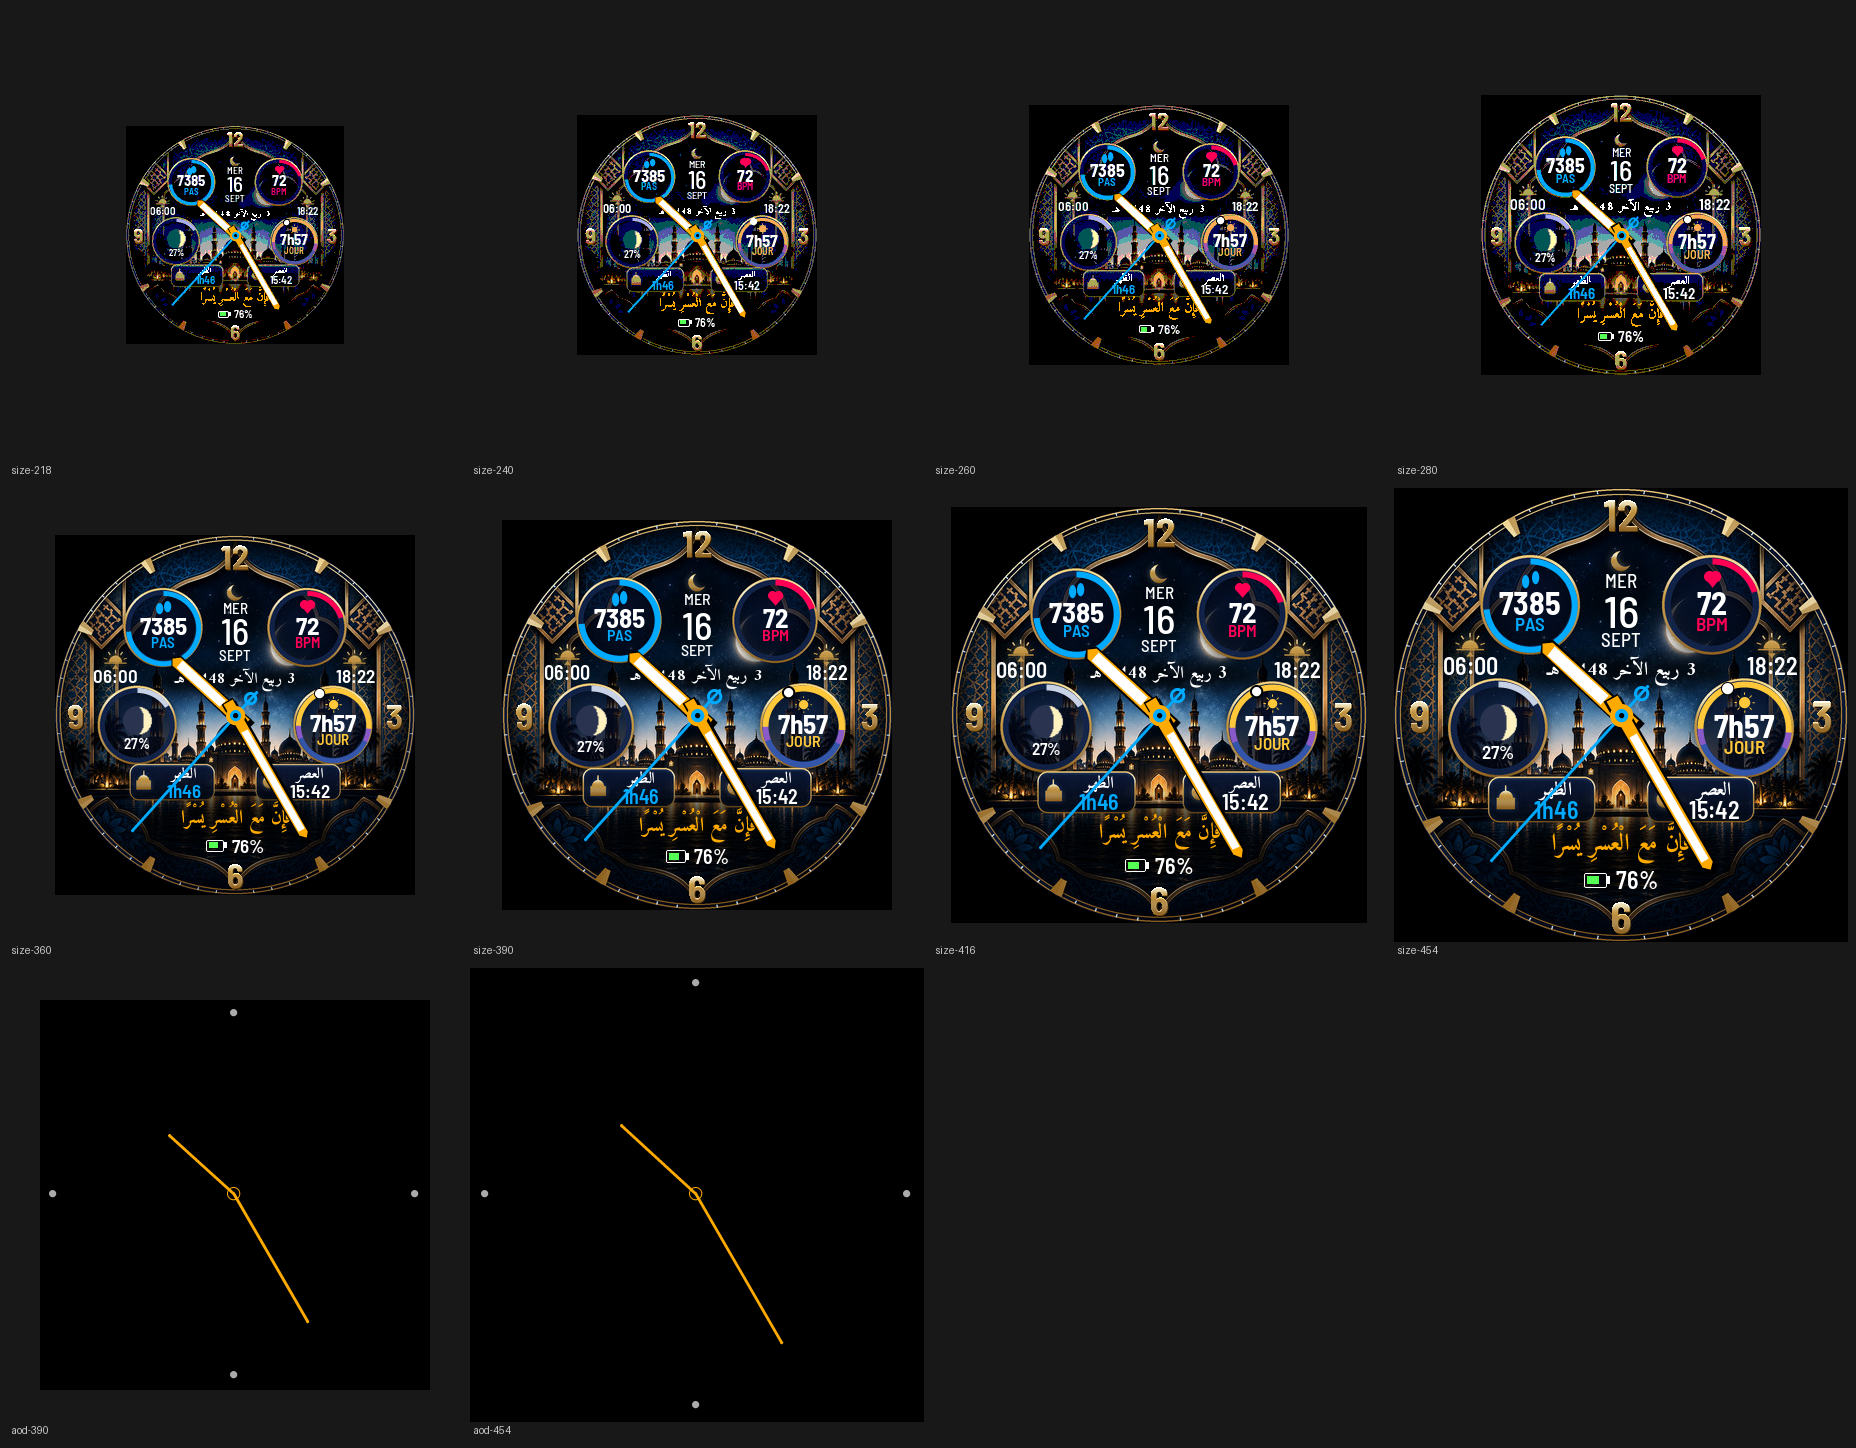
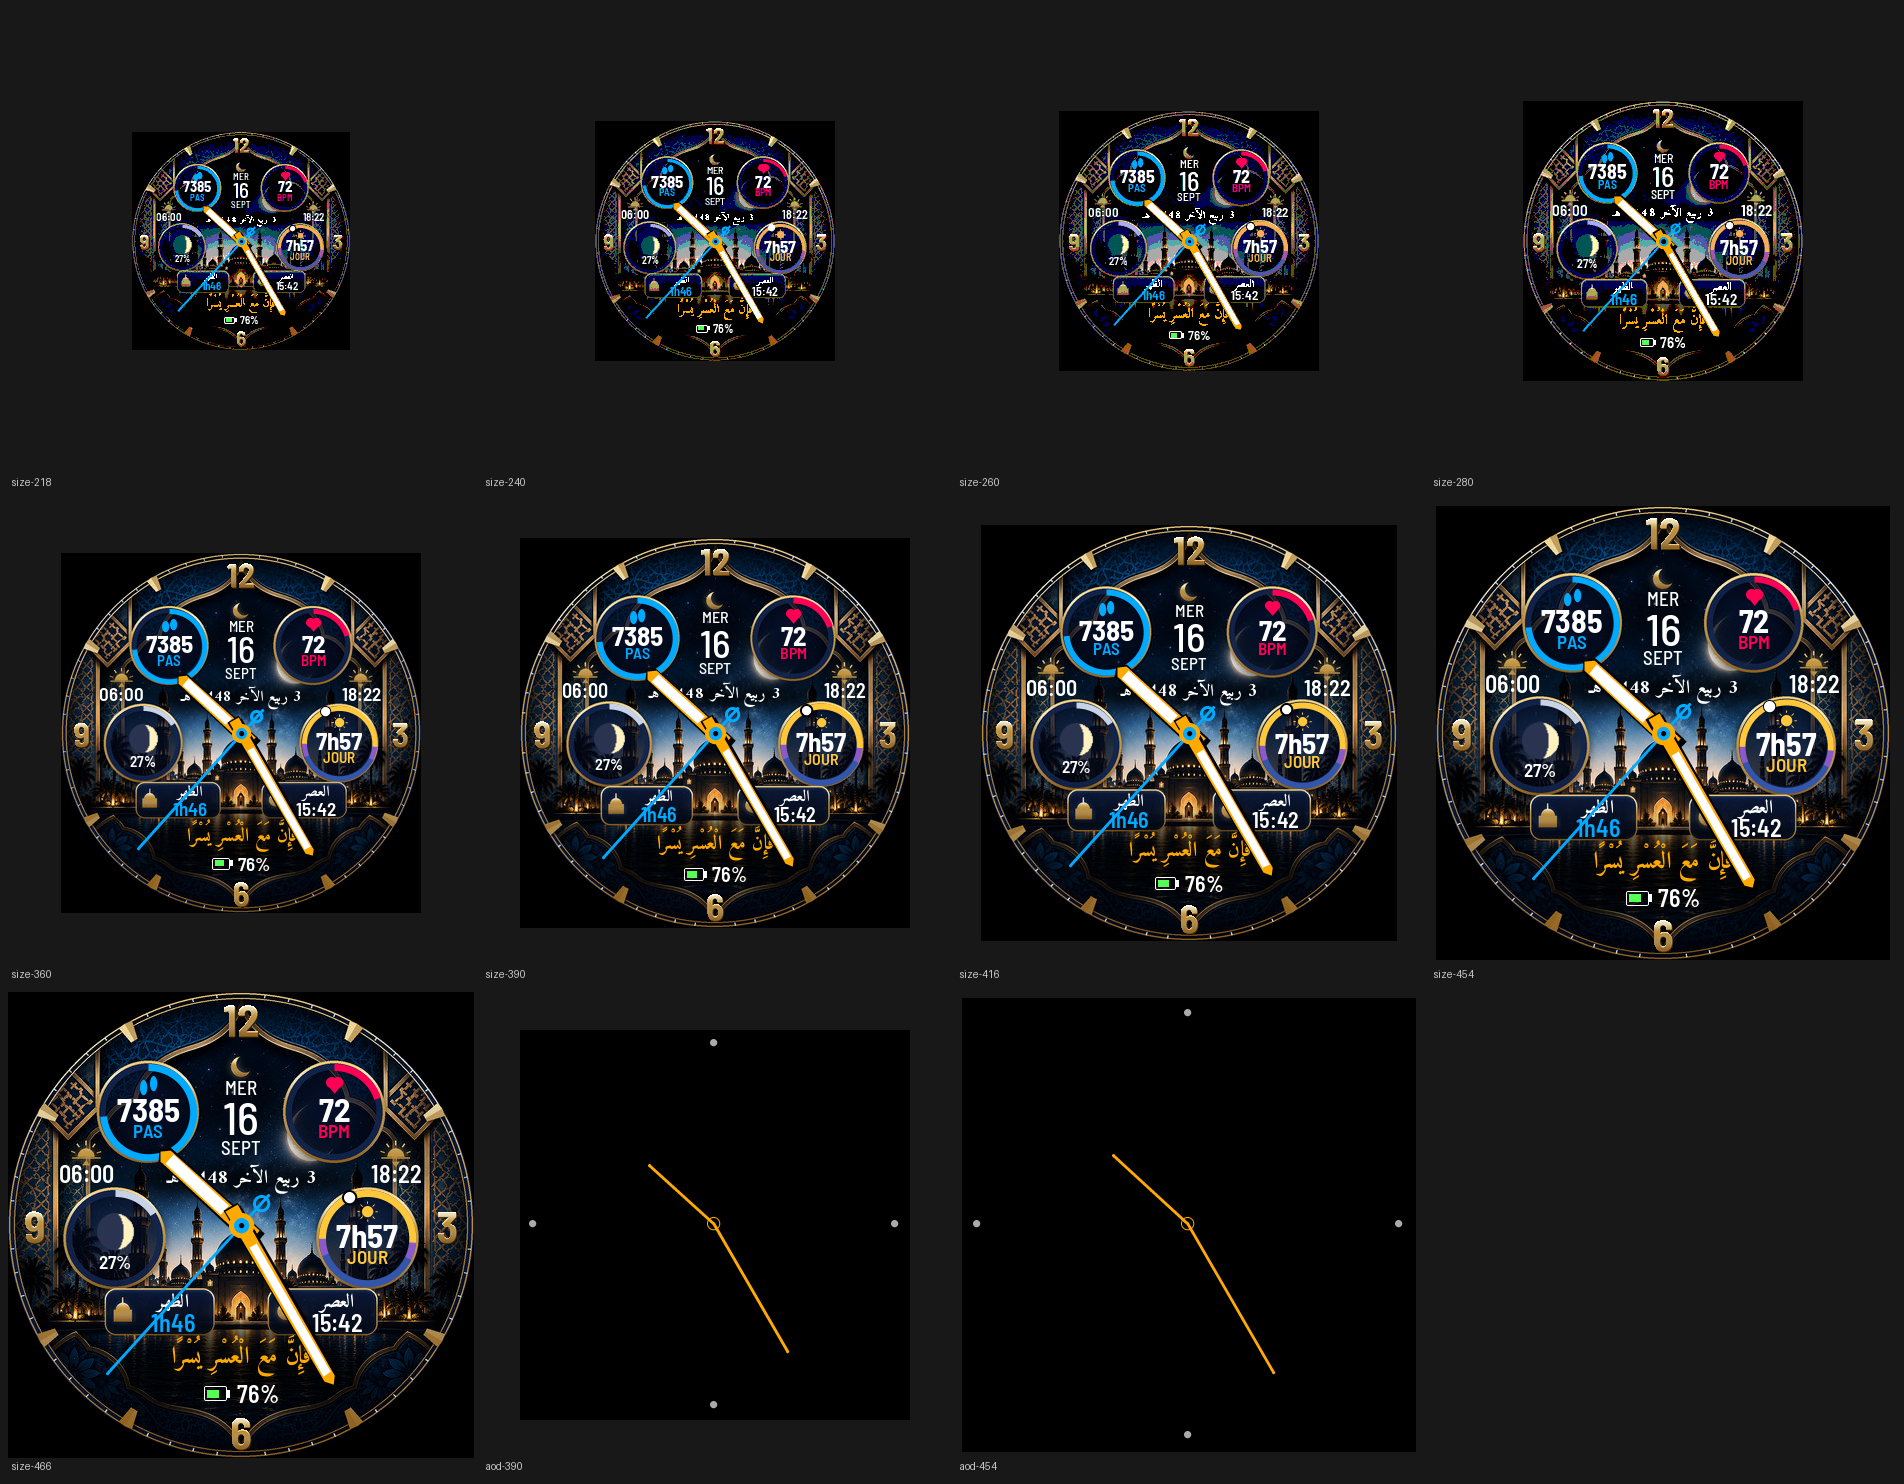
Previews with the 466 px size; checklist: all 70 models compile

diff --git a/docs/RELEASE_CHECKLIST.md b/docs/RELEASE_CHECKLIST.md
@@ -8,8 +8,8 @@ Legend: ✅ done · ⬜ to do by the owner (needs the SDK simulator, the watch o
 * ✅ Algorithms validated against independent libraries — `python3 tools/validate_calculations.py`
   (prayer times, sunrise/sunset, Hijri calendar, Moon phase)
 * ✅ Layout validated for 9 screen sizes (218–466 px), 3 font families, EN/FR — `python3 tools/check_layout.py`
-* ✅ Compiles without errors with Connect IQ SDK 9.3.0 (GitHub Actions): 8 preview devices and the
-  unit-test build
+* ✅ Compiles without errors with Connect IQ SDK 9.3.0 (GitHub Actions, mode `all`): all 70 listed
+  watch models and the unit-test build
 * ✅ Runs on a fēnix 7X Pro (sideloaded): dial, gauges, prayers, verse, Moon, daylight ring
 * ✅ No network access, one permission (SensorHistory), settings validated with fallbacks
 * ✅ Store texts EN/FR and privacy statement — `docs/STORE.md`
@@ -19,7 +19,7 @@ Legend: ✅ done · ⬜ to do by the owner (needs the SDK simulator, the watch o
 * ⬜ Create your permanent developer key **once** and keep it safe, outside the repository (README,
   “Store package”). Every future update must be signed with the same key.
 * ⬜ Add it as the GitHub secret `CIQ_DEVELOPER_KEY`, then run *Actions → Build → Run workflow*
-  with mode `all` (every listed device must compile) and mode `iq` (the Store package)
+  with mode `iq` (the Store package)
 * ⬜ On the watch: watch face → Customise opens the settings menu; change a few settings
 * ⬜ Simulator (SDK on a computer): unit tests `monkeydo bin/LuxeHijriPrayer-tests.prg fenix7xpro -t`
   (7 tests); *File → View Memory* on the largest AMOLED (454 px) and on fr255s (218 px)
